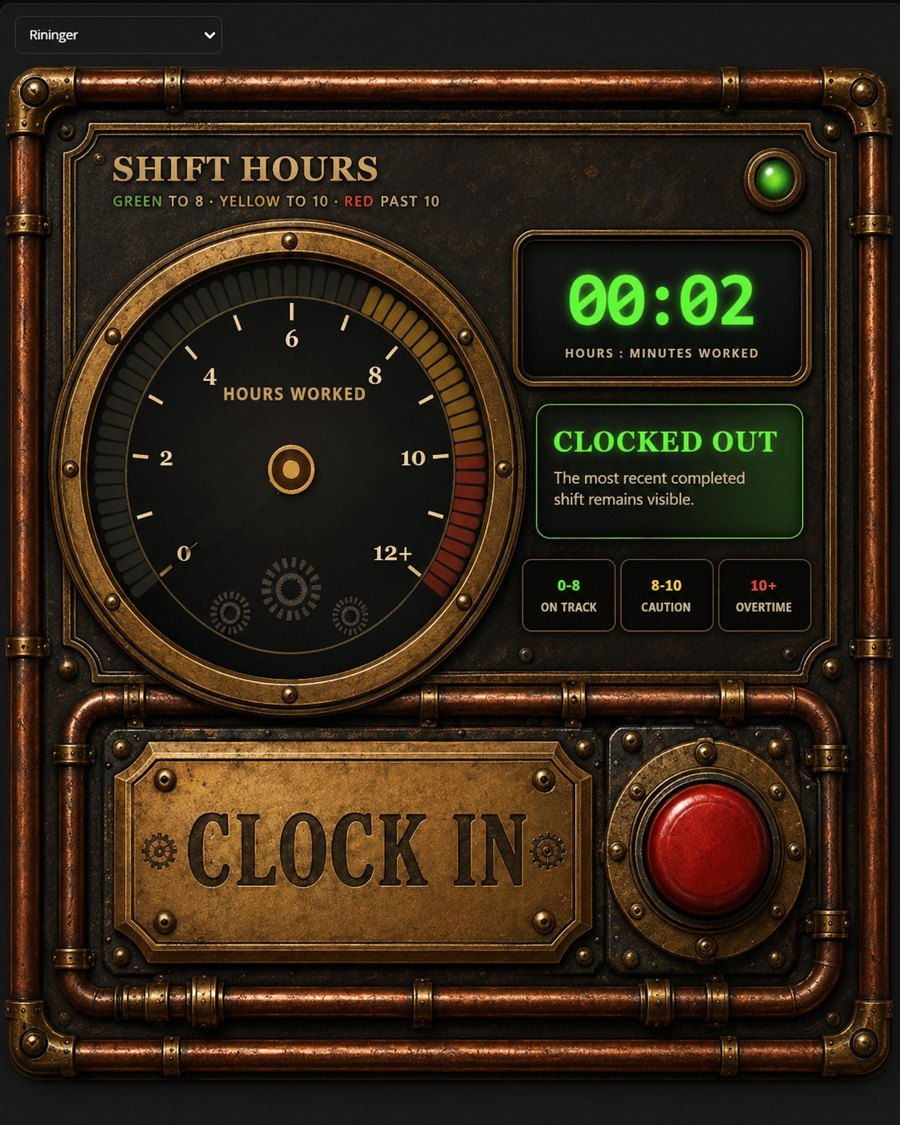
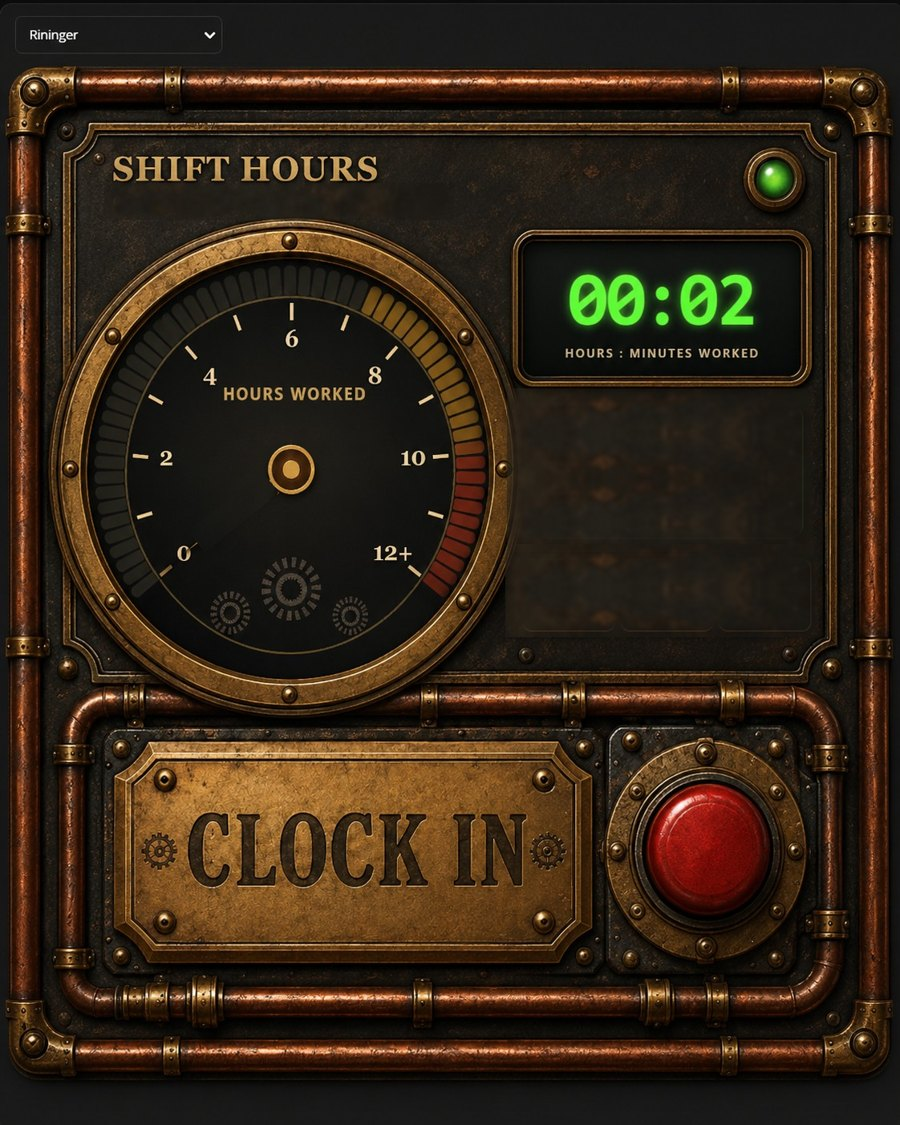
v4.78 — instrument panel refinements per Eric
Brass serif digits, redundant zone labels removed from the art, engraved brass
CLOCK OUT plate, job selector integrated into the panel bay, punch target
narrowed to the plate + red button only.

Claude-Session: https://claude.ai/code/session_01Kpz1W6CjRAd3h98vk7jjgZ

Changed region(s): [[0.56, 0.3422, 0.9022, 0.56], [0.1244, 0.1556, 0.4978, 0.1867]]

diff --git a/index.html b/index.html
@@ -1502,9 +1502,29 @@
     cursor: pointer; touch-action: manipulation; border-radius: 16px; overflow: hidden;
   }
   #bigClock:focus-visible { outline: 4px solid #fff; outline-offset: 4px; }
-  #bigClock:active { filter: brightness(1.12); }
+
   #bigClock img, #bigClock svg { position: absolute; inset: 0; width: 100%; height: 100%; display: block; }
   #bigClock img { object-fit: cover; }
+  #bigClock svg { pointer-events: none; z-index: 2; }
+  /* the punch target is ONLY the bottom control assembly — plate + red button, not the whole panel */
+  .bc-tap {
+    position: absolute; z-index: 3; left: 9.8%; top: 66.3%; width: 80.7%; height: 20.3%;
+    background: none; border: 0; padding: 0; cursor: pointer; border-radius: 14px;
+  }
+  .bc-tap:active { background: rgba(255,235,180,0.12); }
+  .bc-tap:focus-visible { outline: 4px solid #fff; outline-offset: -6px; border-radius: 16px; }
+  /* the job selector lives IN the panel — the empty instrument bay under the readout */
+  .bc-job {
+    position: absolute; z-index: 4;
+    left: 57.2%; top: 39.2%; width: 32.4%; height: 5.9%;
+    background: #17120a; color: #eccf8c;
+    border: 2px solid #8a6a2e; border-radius: 8px;
+    font-family: Georgia, 'Times New Roman', serif; font-weight: 700;
+    font-size: clamp(13px, 4.2vw, 21px); text-align: center; text-align-last: center;
+    padding: 0 6px; box-shadow: inset 0 2px 8px rgba(0,0,0,0.8), 0 1px 0 rgba(232,197,124,0.25);
+    -webkit-appearance: none; appearance: none;
+  }
+  @media (min-width: 720px) { .bc-job { font-size: 19px; } }
   #bcNeedleG {
     transform-box: view-box; transform-origin: 32.353% 41.369%;
     transform: rotate(-130deg);
@@ -1874,7 +1894,6 @@
       </div>
     </div>
     <div class="clock-actions">
-      <select class="job-select" id="clockJob"></select>
       <button class="punch-lever" id="clockBtn" aria-pressed="false" aria-label="Clock in — lever is up, you are clocked out">
         <span class="pl-slot" aria-hidden="true"><span class="pl-shaft"></span><span class="pl-knob"></span></span>
         <span class="pl-txt"><b class="pl-act">Clock In</b><span class="pl-state">▲ lever up · stopped</span></span>
@@ -1910,7 +1929,9 @@
     </button>
     <!-- v4.77 — Eric's full instrument panel: one still image, live needle / readout / status / lamp
          drawn over it in SVG. The whole panel is the clock button. -->
-    <button id="bigClock" type="button" onclick="bcTap()" aria-label="Time clock — tap to clock in or out" data-state="out">
+    <div id="bigClock" data-state="out">
+      <button type="button" class="bc-tap" id="bcTapBtn" onclick="bcTap()" aria-label="Time clock — tap to clock in or out"></button>
+      <select class="bc-job" id="clockJob" title="Job for this shift" aria-label="Job for this shift"></select>
       <img src="steam/clockpanel-big.jpg" alt="" draggable="false">
       <svg viewBox="0 0 1122 1402" aria-hidden="true">
         <defs>
@@ -1928,24 +1949,21 @@
         </g>
         <circle cx="363" cy="580" r="33" fill="url(#bcHub)" stroke="#59431a" stroke-width="2"/>
         <circle cx="363" cy="580" r="11" fill="#f2e2ac"/>
-        <!-- digital readout -->
-        <rect x="672" y="302" width="316" height="160" rx="12" fill="#0a0f08"/>
-        <text id="bcTime" x="830" y="408" text-anchor="middle" font-family="ui-monospace, Menlo, Consolas, monospace" font-size="86" font-weight="700" fill="#6dee5a" letter-spacing="6">00:00</text>
-        <text x="830" y="447" text-anchor="middle" font-family="inherit" font-size="19" font-weight="700" fill="#b9cba7" letter-spacing="4">HOURS : MINUTES WORKED</text>
-        <!-- status window -->
-        <rect x="690" y="518" width="296" height="128" rx="14" fill="#0c120a"/>
-        <text id="bcWord" x="838" y="572" text-anchor="middle" font-family="inherit" font-size="34" font-weight="800" fill="#6dee5a" letter-spacing="1">CLOCKED OUT</text>
-        <text id="bcLine" x="838" y="614" text-anchor="middle" font-family="inherit" font-size="21" fill="#cfe0c0">Tap the panel to clock in</text>
+        <!-- digital readout — brass-lit numerals on the dark screen, matching the panel -->
+        <rect x="672" y="302" width="316" height="160" rx="12" fill="#0d0b06"/>
+        <text id="bcTime" x="830" y="404" text-anchor="middle" font-family="Georgia, 'Times New Roman', serif" font-size="84" font-weight="700" fill="#eccf8c" letter-spacing="5" style="filter: drop-shadow(0 0 7px rgba(236,193,110,0.55));">00:00</text>
+        <text x="830" y="445" text-anchor="middle" font-family="Georgia, 'Times New Roman', serif" font-size="19" font-weight="700" fill="#9d8452" letter-spacing="4">HOURS : MINUTES WORKED</text>
+        <text x="823" y="536" text-anchor="middle" font-family="Georgia, 'Times New Roman', serif" font-size="24" font-weight="700" fill="#a08a55" letter-spacing="6">— JOB —</text>
         <!-- lamp dimmer (visible = lamp dark = off the clock) -->
         <circle id="bcLampOff" cx="963" cy="228" r="31" fill="rgba(8,10,6,0.78)"/>
-        <!-- on-the-clock annunciator over the CLOCK IN plate -->
+        <!-- clocked in: the plate itself reads CLOCK OUT, engraved in the same brass -->
         <g id="bcAnnun" style="display: none;">
-          <rect x="140" y="962" width="612" height="222" rx="20" fill="rgba(8,12,6,0.85)" stroke="#79c96a" stroke-width="3"/>
-          <text x="446" y="1058" text-anchor="middle" font-family="inherit" font-size="52" font-weight="800" fill="#6dee5a" letter-spacing="3">ON THE CLOCK</text>
-          <text x="446" y="1118" text-anchor="middle" font-family="inherit" font-size="27" fill="#cfe0c0">tap to clock out</text>
+          <image x="215" y="1000" width="434" height="106" href="steam/plate-blank.jpg" preserveAspectRatio="none"/>
+          <text x="432" y="1082" text-anchor="middle" font-family="Georgia, 'Times New Roman', serif" font-size="72" font-weight="800" fill="#e6cd93" opacity="0.5" letter-spacing="4" transform="translate(0 3)">CLOCK OUT</text>
+          <text x="432" y="1082" text-anchor="middle" font-family="Georgia, 'Times New Roman', serif" font-size="72" font-weight="800" fill="#33230c" letter-spacing="4">CLOCK OUT</text>
         </g>
       </svg>
-    </button>
+    </div>
     <button class="btn-ghost" id="breakBtn" style="display: none; flex: 1 1 100%;" onclick="toggleBreak()" aria-pressed="false">☕ Go on break</button>
   </div>
 
@@ -2554,7 +2572,7 @@
 
   <div id="photoLb" onclick="lbHide()"><img id="plbImg" alt=""><button class="lb-close" onclick="lbHide()">✕ Close</button></div>
 
-  <footer>v4.77 · Boiler Room — syncs to Dropbox / Clore DayLog when connected (⚙ Setup). Not connected yet? Entries live in this page only — Export CSV to keep them.</footer>
+  <footer>v4.78 · Boiler Room — syncs to Dropbox / Clore DayLog when connected (⚙ Setup). Not connected yet? Entries live in this page only — Export CSV to keep them.</footer>
 </div>
 
 <style id="tcgCss">
@@ -4065,19 +4083,10 @@ function bcRender() {
   g.style.transform = `rotate(${-130 + Math.min(hrs, 12.6) / 12 * 260}deg)`;
   const hh = Math.floor(hrs), mm = Math.floor(hrs * 60) % 60;
   $('bcTime').textContent = `${String(hh).padStart(2, '0')}:${String(mm).padStart(2, '0')}`;
-  let word, line;
-  if (!st.clockedIn) { word = 'CLOCKED OUT'; line = hrs > 0 ? 'Last shift stays on the dial' : 'Tap the panel to clock in'; }
-  else if (breakStart) { word = '☕ ON BREAK'; line = 'Clock is paused — tap ✓ below when done'; }
-  else if (hrs >= 10) { word = '⚠ OVERTIME'; line = 'Past 10 hours — wrap it up'; }
-  else if (hrs >= 9) { word = 'NEAR 10 HOURS'; line = 'The whistle is warming up'; }
-  else if (hrs >= 8) { word = 'PAST 8 HOURS'; line = 'Caution zone'; }
-  else { word = 'ON THE CLOCK'; line = 'Tap the panel to clock out'; }
-  $('bcWord').textContent = word;
-  $('bcLine').textContent = line;
   $('bcLampOff').style.display = st.clockedIn ? 'none' : '';
   $('bcAnnun').style.display = st.clockedIn ? '' : 'none';
-  const b = $('bigClock');
-  b.dataset.state = st.clockedIn ? 'in' : 'out';
+  $('bigClock').dataset.state = st.clockedIn ? 'in' : 'out';
+  const b = $('bcTapBtn');
   b.setAttribute('aria-label', st.clockedIn
     ? `On the clock — ${hh} hours ${mm} minutes worked. Tap to clock out.`
     : 'Clocked out — tap to clock in');
